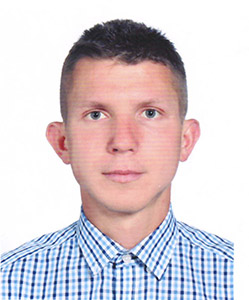
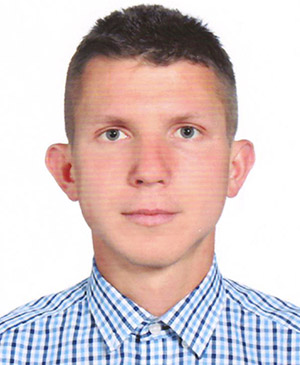
feat: update index.html, style.css, profile picture
Index.html updated, style.css updated, profile picture changed

diff --git a/index.html b/index.html
@@ -9,17 +9,20 @@
   </head>
   <body>
     <div class="wrapper">
-      <header><h1>Vitovt Skurko</h1></header>
+      <header>
+        <h1 id="name">Vitovt Skurko</h1>
+      </header>
 
       <main>
         <img
+          id="avatar"
           src="avatar-mini.jpg"
           alt="A photo of Vitovt Skurko"
           class="avatar"
         />
-        <address>11, Aliaksandrava Str., Liasny, Belarus</address>
 
         <section class="cv-section">
+          <h2>Contacts</h2>
           <p>
             Email:
             <a href="mailto:southstream@yandex.ru">southstream@yandex.ru</a> /
@@ -52,7 +55,8 @@
         <section class="cv-section">
           <h2>Skills</h2>
           <p>
-            Basic knowledge of CSS and HTML. Ability to work hard & learn fast.
+            Adobe Photoshop, basic knowledge of HTML5 and CSS3, the very basics
+            of JavaScript.
           </p>
         </section>
 
@@ -68,17 +72,22 @@
           <h2>Education</h2>
           <p>HTML & CSS Basics courses at:</p>
           <ul>
-            <li>http://freecodecamp.org/</li>
-            <li>https://ru.code-basics.com/</li>
+            <li>
+              <a href="http://freecodecamp.org/">http://freecodecamp.org/</a>
+            </li>
+            <li>
+              <a href="https://ru.code-basics.com/"
+                >https://ru.code-basics.com/</a
+              >
+            </li>
           </ul>
         </section>
 
         <section class="cv-section">
           <h2>English</h2>
           <p>
-            Studied at school + university, mostly used during trips abroad.
-            Fluent in reading / writing, less confident in speaking (for the
-            lack of practice).
+            Upper-Intermediate (fluent in reading / writing, less confident in
+            speaking).
           </p>
         </section>
       </main>

diff --git a/style.css b/style.css
@@ -1,3 +1,8 @@
+* {
+  font-family: "Open Sans", Arial, Helvetica, Verdana, sans-serif;
+  color: rgb(61, 61, 61);
+}
+
 body {
   background-color: rgb(233, 233, 233);
   margin: 0;
@@ -11,4 +16,35 @@ body {
   background-color: #fff;
   border-left: 1px solid gray;
   border-right: 1px solid gray;
+}
+
+h1 {
+  margin-top: 0;
+}
+
+h1,
+h2 {
+  font-family: "Open Sans Condensed", Arial, Helvetica, sans-serif;
+  color: #004d99;
+}
+
+#name {
+  text-transform: uppercase;
+}
+
+#avatar {
+  width: 20%;
+  border: 10px solid hsla(214, 100%, 44%, 0.1);
+}
+
+a:hover {
+  color: #004d99;
+}
+
+.cv-section:not(:last-child) {
+  border-bottom: 1px solid rgb(221, 221, 221);
+}
+
+li {
+  list-style-type: square;
 }
